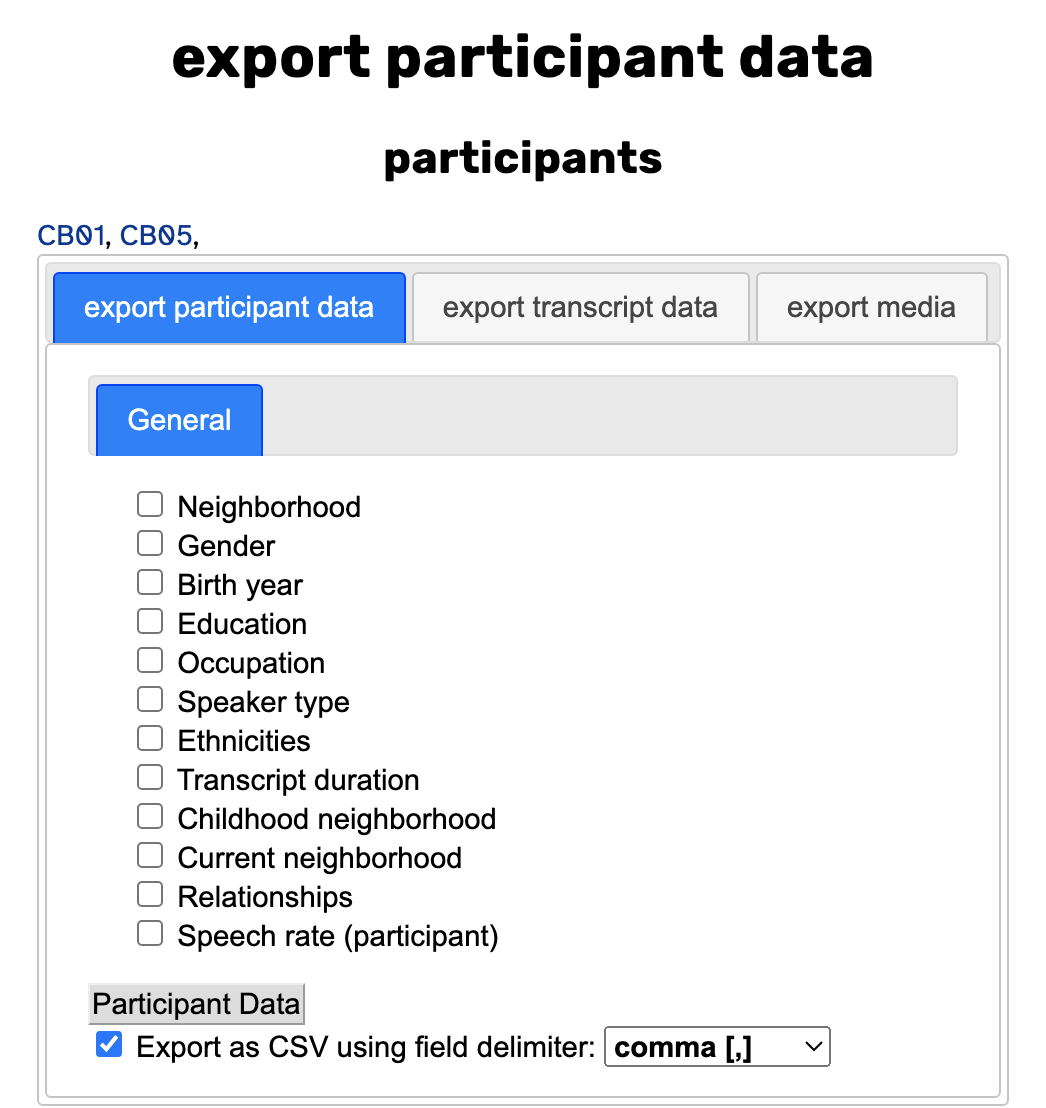
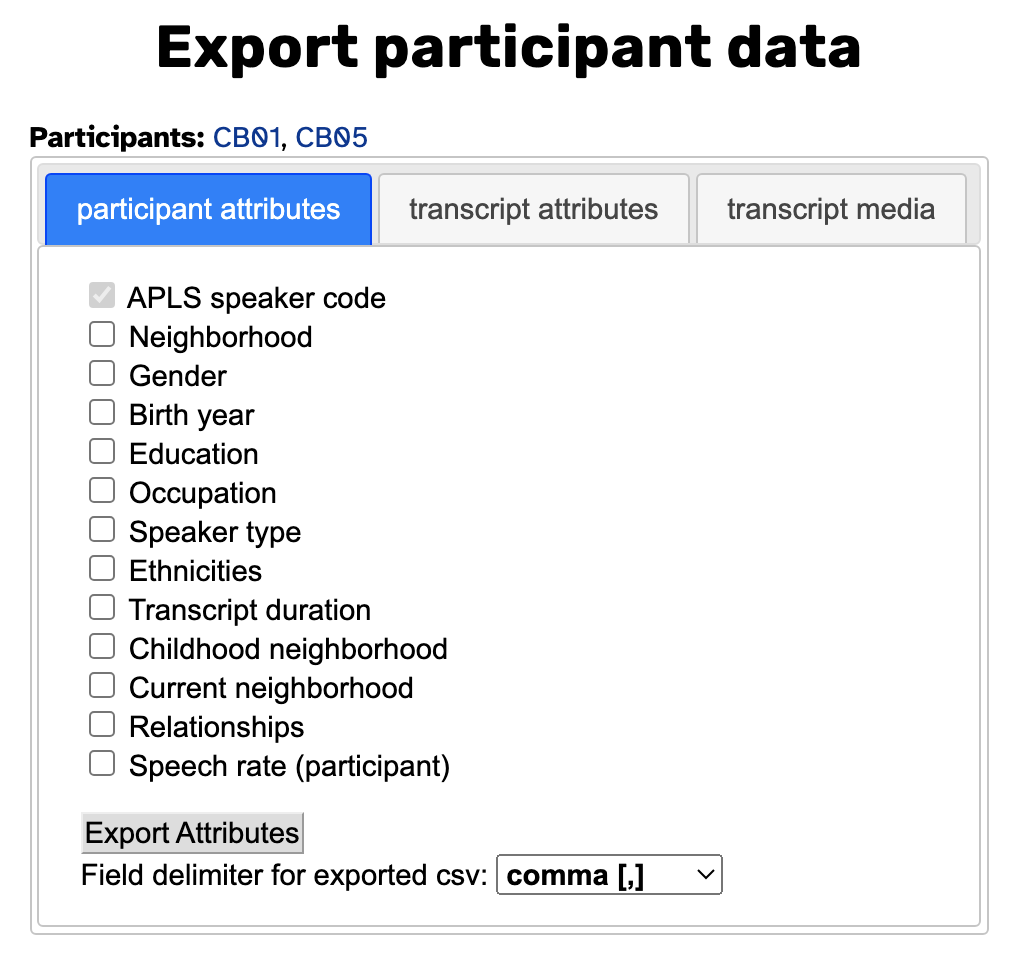
Updating screengrabs for exporting participant data, reordering pages to have viewing information closer to the top, adding in a blank layout section, and fixing some formatting/wording issues.

Changed region(s): [[0.0306, 0.1211, 0.9802, 0.999], [0.1532, 0.0, 0.8577, 0.0908]]

diff --git a/doc/how-to-use/browse-participants.md b/doc/how-to-use/browse-participants.md
@@ -3,13 +3,13 @@ title: Browsing participants
 permalink: /doc/browse-participants
 parent: How to use APLS
 nav_order: 40
-last_modified_date: 2025-02-25T14:42:35:z
+last_modified_date: 2025-02-28T16:01:29:z
 ---
 
 # {{ page.title }}
 {:.no_toc}
 
-The primary way to browse participants in APLS is via the [_participants_ page](https://apls.pitt.edu/labbcat/participants). 
+The primary way to browse participants in APLS is via the _participants_ page: <https://apls.pitt.edu/labbcat/participants>. 
 
 The _participants_ page lets you view, filter, and export information about the participants in APLS.
 On this documentation page, we cover the functionality and layout of the _participants_ page.
@@ -19,10 +19,35 @@ On this documentation page, we cover the functionality and layout of the _partic
 ## What you can do on the _participants_ page
 
 The _participants_ page allows you to...
+- [View demographic information](#participant-list) for participants.
 - [Filter participants](#filtering-participants) according to certain criteria.
 - [Export participant data](#exporting-and-searching-participants) in a variety of formats.
-- [Search transcripts by participant](#layered-search) with the [_search_ page]({{ '/doc/search' | relative_url }}).
-- [View the list of participants](#participant-list) that match your filters.
+- [Select participants to search](#layered-search).
+
+### Layout
+
+<!-- creating blank section for Dan to add screengrabs and such -->
+
+## Participant list
+
+The <span class="keyterm">participant list</span> displays all participants in APLS that match your filter criteria.
+
+![]({{ '/assets/screengrab/browse-participants/browse-participants-participant-list.png' | relative_url }})
+
+The columns in the participant list, from left to right, are:
+- A checkbox that can be toggled on to have the participant included in [Export menu](#exporting-and-searching-participant-data) options.
+- The code or name of the participant.
+  - Clicking the participant code will open that participant's [attributes page](#participant-attributes-pages).
+- The <span class="transcript-attr">episode</span> code associated with the participant.
+- The number of transcripts for that participant.
+- The <span class="participant-attr">neighborhood</span> where the participant was recruited from.
+- The participant's <span class="participant-attr">gender</span>.
+- The participant's <span class="participant-attr">year_of_birth</span>.
+- The participant's <span class="participant-attr">education</span> level.
+- The participant's speaker <span class="participant-attr">type</span>.
+- The total <span class="participant-attr">transcript_duration</span> (measured in seconds) for that participant.
+
+You can read more about participant attribute data in the [Participant attributes]({{ '/doc/attribute-reference#participant-attributes' | relative_url }}) section of the [Attribute reference]({{ '/doc/attribute-reference' | relative_url }}) documentation page.
 
 ## Filtering participants
 
@@ -41,33 +66,40 @@ The nine filter fields correspond to the columns in the participant list directl
 [^episodes]: Most episode codes correspond to a single "Main speaker" participant code, but there are some episode codes that are combinations of multiple participant codes. These episode codes are for sociolinguistic interviews with multiple main speakers; however, the transcripts currently in APLS are for recordings where only one "Main speaker" is present.
 
 - The "Participant" and "Episode" text fields filter participants by <span class="participant-attr">participant</span> code or <span class="transcript-attr">episode</span> code[^episodes] using [regular expressions]({{ '/doc/regex' | relative_url }}).
-- {: .try-it }
-> Go to the [_participants_ page](https://apls.pitt.edu/labbcat/participants) and enter `.+and.+` into the "Episode" text field.
-> This will display all participants with an episode code that is a combination of multiple participant codes.
+
+  {: .try-it }
+  > Go to the [_participants_ page](https://apls.pitt.edu/labbcat/participants) and enter `.+and.+` into the "Episode" text field.
+  > This will display all participants with an episode code that is a combination of multiple participant codes.
 - The "Transcript count" text fields filter participants by their total number of transcripts in APLS.
   - To view participants with...
     -  _at least_ `X` transcripts: enter `X` in the *From* box (leave *To* blank)
     - _at most_ `Y` transcripts: enter `Y` in the *To* box (leave *From* blank)
     - _between_ `X` and `Y` transcripts (inclusive): enter `X` in the *From* box and `Y` in the *To* box
   - The default for this filter is set to show all participants with at least 1 transcript in APLS.
-- {: .try-it }
-> Go to the [_participants_ page](https://apls.pitt.edu/labbcat/participants) and enter `10` into the *From* text field and leave the *To* text field blank.
-> This will show all participants with at least 10 transcripts in APLS.
->
-> In the same way, you can leave the *From* text field blank and enter `3` in the *To* text field to show all participants that have 3 transcripts or less in APLS.
-- {: .under-the-hood }
-> Some participants have 0 transcripts.
-> We're still transcribing their interviews, and we've pre-uploaded their [participant attributes]({{ '/doc/attribute-typology' | relative_url }}).
-> Version 1.0 of APLS will include all of these participants.
+
+  {: .try-it }
+  > Go to the [_participants_ page](https://apls.pitt.edu/labbcat/participants) and enter `10` into the *From* text field and leave the *To* text field blank.
+  > This will show all participants with at least 10 transcripts in APLS.
+  >
+  > In the same way, you can leave the *From* text field blank and enter `3` in the *To* text field to show all participants that have 3 transcripts or less in APLS.
+
+  {: .under-the-hood }
+  > Some participants have 0 transcripts.
+  > We're still transcribing their interviews, and we've pre-uploaded their [participant attributes]({{ '/doc/attribute-typology' | relative_url }}).
+  > Version 1.0 of APLS will include all of these participants.
 - The "Neighborhood" multi-choice menu filters participants by the Pittsburgh <span class="participant-attr">neighborhood</span> where the participant was recruited from.
-  - The four <span class="participant-attr">neighborhood</span> abbreviations (with corresponding full names) are *CB* (Cranberry Township), *FH* (Forest Hills), *HD* (Hill District), *LV* (Lawrenceville).
+  - You can view full [option descriptions]({{ '/doc/attribute-typology#option-codes-and-descriptions' | relative_url }}) by hovering over the options in the dropdown menu.
 - The "Gender" multi-choice menu filters participants by <span class="participant-attr">gender</span>.
+
+  {: .note }
+  > All speakers in APLS self-identified as either women or men at the time of recording.
 - The "Birth year" text fields filter participants by their <span class="participant-attr">year_of_birth</span>.
   - The *From* and *To* ranges for this filter can be used with one value or two values, similar to the "Transcript count" filter.
 - The "Education" multi-choice menu filters participants by their level of <span class="participant-attr">education</span> at the time of the recording.
-- {: .try-it }
-> Go to the [Transcripts page](https://apls.pitt.edu/labbcat/transcripts) and select *BA* and *> BA* from the Education drop-down list.
-> This will display all participants who completed a 4-year undergraduate degree of some sort, as well as participants who had some graduate level education.
+
+  {: .try-it }
+  > Go to the [Transcripts page](https://apls.pitt.edu/labbcat/transcripts) and select *BA* and *> BA* from the Education drop-down list.
+  > This will display all participants who completed a 4-year undergraduate degree of some sort, as well as participants who had some graduate level education.
 - The "Speaker type" multi-choice menu filters participants by their speaker <span class="participant-attr">type</span>.
   - The default for this filter is set to show only participants who are categorized as main speakers.
 - The "Transcript duration" text fields filter participants by the total <span class="participant-attr">transcript_duration</span> (measured in seconds) associated with that participant.
@@ -75,25 +107,29 @@ The nine filter fields correspond to the columns in the participant list directl
 
 ### Clearing filters
 
-The "delete" button (shown as ![]({{ '/assets/img/delete.svg' | relative_url }}){: style="height:1rem;"}) allows you to clear all currently specified filters.
+The "delete" button (![]({{ '/assets/img/delete.svg' | relative_url }}){: style="height:1rem;"}) allows you to clear all currently specified filters.
 
 This button will also clear the default transcript count and speaker type filters, allowing you to view all participants in APLS.
 
 ## Exporting and searching participant data
 
-The <span class="keyterm">export menu</span> allows you to download and search data associated with participants via different webpages.
+The <span class="keyterm">export menu</span> allows you to download and search data associated with participants via different pages.
 The export menu is located below the [filter menu](#filtering-participants).
 
 ![]({{ '/assets/screengrab/browse-participants/browse-participants-export-menu.png' | relative_url }})
 
 ### *All Utterances*
 
+{: .under-the-hood }
+> The *All Utterances* function is primarily used by maintainers of the corpus to manage the alignment of utterances.
+> This function may be removed in future versions of APLS.
+
 The *All Utterances* option allows you to view and download all utterances produced by selected participants in APLS.
 
 {: .note .no-collapse}
 > The "All Utterances" option will appear grayed out until one or more participants are selected.
 
-Clicking *All Utterances* after selecting participants will bring up the "All Utterances" webpage.
+Clicking *All Utterances* after selecting participants will bring up the "All Utterances" page.
 
 ![]({{ '/assets/screengrab/browse-participants/browse-participants-all-utterances.png' | relative_url }})
 
@@ -118,40 +154,42 @@ The *Export Attributes* option allows you to download participant data, transcri
 {: .note .no-collapse}
 > If no participants are selected, the *Export Attributes* option will include all participants that match your current filter criteria.
 
-Clicking *Export Attributes* will bring up the **export participant data** webpage, which has three different panels.
+Clicking *Export Attributes* will bring up the **export participant data** page, which has three different panels.
 
-#### *export participant data*
+#### *participant attributes*
 
-*export participant data* is the first panel on the **export participant data** webpage.
+*participant attributes* is the first panel on the **export participant data** page.
 
 ![]({{ '/assets/screengrab/browse-participants/browse-participants-export-participant-data.png' | relative_url }})
 
 This panel allows you to export [participant attribute data]({{ '/doc/attribute-reference#participant-attributes' | relative_url }}) according to the attribute fields you select. 
-Participant codes are always included in the first column of the exported file.
 
-After selecting the attributes you would like to export, clicking the *Participant Data* button will download a `.csv` with the selected data. 
+APLS speaker codes are always included in exported file, which is why the checkbox is grayed-out.
+
+After selecting the attributes you would like to export, clicking the *Export Attributes* button will download a `.csv` with the selected data. 
 By default, the `.csv` uses commas as field delimiters, but you can use the drop-down menu to export the `.csv` with semicolon delimiters or tab delimiters.
 
 Participant attribute data is explained in more detail in the [Participant attributes]({{ '/doc/attribute-reference#participant-attributes' | relative_url }}) section of the [Attribute reference]({{ '/doc/attribute-reference' | relative_url }}) documentation page.
 
-#### *export transcript data*
+#### *transcript attributes*
 
-*export transcript data* is the second panel on the **export participant data** webpage.
+*transcript attributes* is the second panel on the **export participant data** page.
 
 ![]({{ '/assets/screengrab/browse-participants/browse-participants-export-transcript-data.png' | relative_url }})
 
 This panel allows you to export participants' [transcript attribute data]({{ '/doc/attribute-reference#transcript-attributes' | relative_url }}) according to the attribute fields you select.
-The transcript names are always included in the first column of the exported file.
-At least one attribute must be selected to export transcript data.
 
-After selecting the attributes you would like to export, clicking the *Transcript Data* button will download a `.csv` with the selected data. 
+Transcript file names are always included in exported file, which is why the checkbox is grayed-out.
+At least one additional attribute must be selected to export transcript data.
+
+After selecting the attributes you would like to export, clicking the *Export Attributes* button will download a `.csv` with the selected data. 
 By default, the `.csv` uses commas as field delimiters, but you can use the drop-down menu to export the `.csv` with semicolon delimiters or tab delimiters.
 
 A detailed description of the different transcript attributes can be found in the [Transcript attributes]({{ '/doc/attribute-reference#transcript-attributes' | relative_url }}) section of the [Attribute reference]({{ '/doc/attribute-reference' | relative_url }}) documentation page.
 
-#### *export media*
+#### *transcript media*
 
-*export media* is the third panel on the **export participant data** webpage.
+*transcript media* is the third panel on the **export participant data** page.
 
 ![]({{ '/assets/screengrab/browse-participants/browse-participants-export-media.png' | relative_url }})
 
@@ -178,29 +216,9 @@ This allows you to use any of the search capabilities described on the [Searchin
 > 1. Enter `yinz` into the [Regular expression]({{ '/doc/regex' | relative_url }}) text field in the orthography section and click *Search*.
 > 1. Click *Display results* to view all utterances of the word `yinz` in the transcripts for the five selected participants.
 
-
-## Participant list
-
-The <span class="keyterm">participant list</span> displays all participants in APLS that match your filter criteria.
-
-![]({{ '/assets/screengrab/browse-participants/browse-participants-participant-list.png' | relative_url }})
-
-The columns in the participant list, from left to right, are:
-- A checkbox that can be toggled on to have the participant included in [Export menu](#exporting-and-searching-participant-data) options.
-- The code or name of the participant.
-  - Clicking the blue hyperlink text of the participant will open that participant's [attributes webpage](#participant-attributes-pages).
-- The <span class="transcript-attr">episode</span> code associated with the participant.
-- The number of transcripts for that participant.
-- The <span class="participant-attr">neighborhood</span> where the participant was recruited from.
-- The participant's <span class="participant-attr">gender</span>.
-- The participant's <span class="participant-attr">year_of_birth</span>.
-- The participant's <span class="participant-attr">education</span> level.
-- The participant's speaker <span class="participant-attr">type</span>.
-- The total <span class="participant-attr">transcript_duration</span> (measured in seconds) for that participant.
-
 ## Participant attributes pages
 
-Clicking the blue hyperlink text of a participant will open that participant's attributes page.
+Clicking a participant code will open that participant's attributes page.
 This page includes more information about the participant than what is displayed on the main _participants_ page, as well as links to data associated with the participant.
 
 ![]({{ '/assets/screengrab/browse-participants/browse-participants-participant-attributes-page.png' | relative_url }})

diff --git a/doc/how-to-use/browse-transcripts.md b/doc/how-to-use/browse-transcripts.md
@@ -3,13 +3,13 @@ title: Browsing transcripts
 permalink: /doc/browse-transcripts
 parent: How to use APLS
 nav_order: 30
-last_modified_date: 2025-02-25T14:53:49:z
+last_modified_date: 2025-02-28T16:01:29:z
 ---
 
 # {{ page.title }}
 {:.no_toc}
 
-The primary way to browse transcripts in APLS is via the [_transcripts_ page](https://apls.pitt.edu/labbcat/transcripts). 
+The primary way to browse transcripts in APLS is via the _transcripts_ page: <https://apls.pitt.edu/labbcat/transcripts>. 
 
 The _transcripts_ page lists all the transcripts in APLS that are available for access, but it also offers useful tools for filtering and exporting transcripts.
 On this documentation page, we cover the functionality and layout of the _transcripts_ page.
@@ -19,10 +19,36 @@ On this documentation page, we cover the functionality and layout of the _transc
 ## What you can do on the _transcripts_ page
 
 The _transcripts_ page allows you to...
+- [View transcript information](#transcript-list).
 - [Filter transcripts](#filtering-transcripts) according to certain criteria.
 - [Export transcripts](#exporting-and-searching-transcripts) in a variety of formats.
 - [Search transcripts](#layered-search) with the [_search_ page]({{ '/doc/search' | relative_url }}).
-- [View the list of transcripts](#transcript-list) that match your filters.
+
+### Layout
+
+<!-- creating blank section for Dan to add screengrabs and such -->
+
+## Transcript list
+
+The <span class="keyterm">transcript list</span> displays all transcripts in APLS that match your filter criteria.
+
+![]({{ '/assets/screengrab/browse-transcripts/browse-transcripts-transcript-list.png' | relative_url }})
+
+The transcript list in the screengrab above shows all transcripts in APLS that are of the `interview` <span class="transcript-attr">type</span>, tagged as `Cranberry Township` <span class="transcript-attr">neighborhood</span>, and have a <span class="transcript-attr">duration</span> between 300 and 500 seconds.
+
+The columns in the transcript list, from left to right, are:
+- A checkbox that can be toggled on to have the transcript included in [Export menu](#exporting-and-searching-transcripts) options.
+- The name of the transcript.
+  - Clicking on the transcript name will open the [transcript page]({{ '/doc/view-transcript' | relative_url }}) for that transcript.
+- The content <span class="transcript-attr">type</span> of the transcript.
+- The <span class="transcript-attr">neighborhood</span> of the transcript.
+- The <span class="transcript-attr">duration</span> of the transcript in seconds.
+- A clickable *attributes icon* that will open that [transcript's attributes page](#transcript-attributes-pages).
+
+{: .try-it }
+> Go to the [_transcripts_ page](https://apls.pitt.edu/labbcat/transcripts) and click *CB05pairs.eaf* to view that transcript's [transcript page]({{ '/doc/view-transcript' | relative_url }}).
+
+You can read more about transcript attributes in the [Transcript attributes]({{ '/doc/attribute-reference#transcript-attributes' | relative_url }}) section of the [Attribute reference]({{ '/doc/attribute-reference' | relative_url }}) documentation page.
 
 ## Filtering transcripts
 
@@ -38,24 +64,26 @@ In the screengrab above, no filters have been applied so the match count display
 The four filter fields correspond to the columns in the transcript list directly below the filter fields:
 - The "Transcript name" text field filters transcripts by name and supports [regular expressions]({{ '/doc/regex' | relative_url }}).
 - The "Transcript type" multi-choice menu filters transcripts by their <span class="transcript-attr">type</span> of content.
-- {: .try-it }
-> Because transcript type is determined by the content of the transcript, it makes it easy for researchers to filter for certain types of speech.
-> To view all transcripts with higher attention to speech, go to the [_transcripts_ page](https://apls.pitt.edu/labbcat/transcripts) and select *reading* and *pairs* from the Transcript type drop-down list.
+
+  {: .try-it }
+  > Because transcript type is determined by the content of the transcript, it makes it easy for researchers to filter for certain types of speech.
+  > To view all transcripts with higher attention to speech, go to the [_transcripts_ page](https://apls.pitt.edu/labbcat/transcripts) and select *reading* and *pairs* from the Transcript type drop-down list.
 - The "Transcript neighborhood" multi-choice menu filters transcripts according to the Pittsburgh <span class="transcript-attr">neighborhood</span> where the participant was recruited from.
 - The "Duration (sec)" text fields filter transcripts by their <span class="transcript-attr">duration</span> in seconds. 
   - To view transcripts with...
     -  _at least_ `X` <span class="transcript-attr">duration</span>: enter `X` in the *From* box (leave *To* blank)
     - _at most_ `Y` <span class="transcript-attr">duration</span>: enter `Y` in the *To* box (leave *From* blank)
     - _between_ `X` and `Y` <span class="transcript-attr">duration</span> (inclusive): enter `X` in the *From* box and `Y` in the *To* box
-- {: .try-it }
-> Go to the [_transcripts_ page](https://apls.pitt.edu/labbcat/transcripts) and enter `50`"into the *From* text field and leave the *To* text field blank.
-> This will show all transcripts that are at least 50 seconds in <span class="transcript-attr">duration</span>.
->
-> In the same way, you can leave the *From* text field blank and enter `300` in the *To* text field to show all transcripts that are 300 seconds or less in <span class="transcript-attr">duration</span>.
+
+  {: .try-it }
+  > Go to the [_transcripts_ page](https://apls.pitt.edu/labbcat/transcripts) and enter `50`"into the *From* text field and leave the *To* text field blank.
+  > This will show all transcripts that are at least 50 seconds in <span class="transcript-attr">duration</span>.
+  >
+  > In the same way, you can leave the *From* text field blank and enter `300` in the *To* text field to show all transcripts that are 300 seconds or less in <span class="transcript-attr">duration</span>.
 
 ### Clearing filters
 
-The "delete" button (shown as ![]({{ '/assets/img/delete.svg' | relative_url }}){: style="height:1rem;"}) allows you to clear all currently specified filters.
+The "delete" button (![]({{ '/assets/img/delete.svg' | relative_url }}){: style="height:1rem;"}) allows you to clear all currently specified filters.
 
 ## Exporting and searching transcripts
 
@@ -128,26 +156,6 @@ This allows you to use any of the search capabilities described on the [Searchin
 > 1. Click *Layered Search* to open the [_search_ page]({{ '/doc/search' | relative_url }}).
 > 1. Enter `steel` into the [Regular expression]({{ '/doc/regex' | relative_url }}) text field in the orthography section and click *Search*.
 > 1. Click *Display results* to view all utterances of the word `steel` in the CB01 transcripts.
-
-## Transcript list
-
-The <span class="keyterm">transcript list</span> displays all transcripts in APLS that match your filter criteria.
-
-![]({{ '/assets/screengrab/browse-transcripts/browse-transcripts-transcript-list.png' | relative_url }})
-
-The transcript list in the screengrab above shows all transcripts in APLS that are of the `interview` <span class="transcript-attr">type</span>, tagged as `Cranberry Township` <span class="transcript-attr">neighborhood</span>, and have a <span class="transcript-attr">duration</span> between 300 and 500 seconds.
-
-The columns in the transcript list, from left to right, are:
-- A checkbox that can be toggled on to have the transcript included in [Export menu](#exporting-and-searching-transcripts) options.
-- The name of the transcript.
-  - Clicking on the blue hyperlink text of the transcript name will open the [transcript webpage]({{ '/doc/view-transcript' | relative_url }}) for that transcript.
-- The content <span class="transcript-attr">type</span> of the transcript.
-- The <span class="transcript-attr">neighborhood</span> of the transcript.
-- The <span class="transcript-attr">duration</span> of the transcript in seconds.
-- A clickable *attributes icon* that will open that [transcript's attributes page](#transcript-attributes-pages).
-
-{: .try-it }
-> Go to the [_transcripts_ page](https://apls.pitt.edu/labbcat/transcripts) and click *CB05pairs.eaf* to view that transcript's [transcript page]({{ '/doc/view-transcript' | relative_url }}).
 
 ## Transcript attributes pages
 
